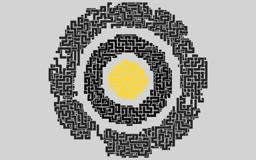
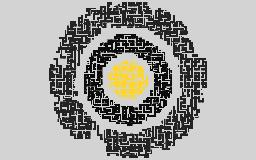
add leaves

Changed region(s): [[0.1875, 0.0, 0.8125, 1.0]]

diff --git a/scripts/decoration.js b/scripts/decoration.js
@@ -1,0 +1,59 @@
+let root = "./preview/thumbnail/"
+    //each flavor has pictures of n images
+    //under the root directory
+let source = {
+    'l': 4,
+    'm': 6,
+    's': 8
+}
+
+class Leaf {
+    constructor(img) {
+        let reference = Math.max(globals['width'], globals['height']);
+        this.baseSize = Math.min(1024, reference * 0.8);
+        let flavor = "llmmss".charAt(Math.floor(Math.random() * 6)).toString();
+        this.src = root + flavor + Math.floor(Math.random() * source[flavor] + 1) + '.png';
+        //exclude bottom left corner
+        let corner = Math.floor(Math.random() * 3);
+        let dev = (this.baseSize / -2) + 'px';
+
+        this.img = img;
+        switch (corner) {
+            case 0:
+                this.img.style.left = dev;
+                this.img.style.top = dev;
+                break;
+            case 1:
+                this.img.style.right = dev;
+                this.img.style.top = dev;
+                break;
+            case 2:
+                this.img.style.right = dev;
+                this.img.style.bottom = dev;
+                break;
+        }
+        this.img.style.width = this.baseSize + 'px';
+        this.img.style.height = this.img.style.width;
+        if (!globals['isMobile']) {
+            this.img.onmouseover = () => {
+                this.img.style.width = (this.baseSize - 5) + 'px';
+                this.img.style.height = this.img.style.width;
+            }
+            this.img.onmouseout = () => {
+                this.img.style.width = (this.baseSize) + 'px';
+                this.img.style.height = this.img.style.width;
+            }
+        }
+        this.img.src = this.src;
+    }
+}
+
+let collection = [];
+
+async function initLeaves() {
+    collection = [];
+    let leaves = document.querySelectorAll(".deco.leaf");
+    for (let i = 0; i < leaves.length; i++) {
+        collection.push(new Leaf(leaves[i]));
+    }
+}

diff --git a/index.html b/index.html
@@ -13,6 +13,7 @@
     <script type="text/javascript" src="./scripts/view_wraps.js"></script>
     <script type="text/javascript" src="./scripts/vector.js"></script>
     <script type="text/javascript" src="./scripts/pondAnimator.js"></script>
+    <script type="text/javascript" src="./scripts/decoration.js"></script>
     <script type="text/javascript" src="./scripts/slab.js"></script>
     <script type="text/javascript" src="./scripts/init.js"></script>
 </head>
@@ -20,6 +21,14 @@
 <body>
     <p id="debug"></p>
     <canvas id="background"></canvas>
+    <div id="deco_holder">
+        <img class="deco leaf">
+        <img class="deco leaf">
+        <img class="deco leaf">
+        <img class="deco leaf">
+        <img class="deco leaf">
+        <img class="deco leaf">
+    </div>
     <!--the navigational panel on the left-->
     <div id="header">
         <div id="header_text">

diff --git a/res/layout/stylesheet.css b/res/layout/stylesheet.css
@@ -143,3 +143,15 @@ body {
 .exhibition#about>div {
     height: fit-content;
 }
+
+
+/*
+below are for decorations
+*/
+
+.deco.leaf {
+    position: absolute;
+    opacity: 0.6;
+    transition: width 1s, height 1s;
+    transition-timing-function: ease-in-out;
+}

diff --git a/scripts/init.js b/scripts/init.js
@@ -173,6 +173,8 @@ window.onload = function() {
         }
     };
 
+    // process decorative leaves
+    initLeaves();
     // start pond animation
     startAnimation();
 };

diff --git a/precompile.py b/precompile.py
@@ -19,7 +19,7 @@ def clear(dir, exempt = []):
 res_img_major = os.path.join(root, 'res', 'img', 'major') # major projects
 res_img_minor = os.path.join(root, 'res', 'img', 'minor') # minor projects
 res_img_illust = os.path.join(root, 'res', 'img', 'illust') # illustrations
-res_deco = os.path.join(root, 'res', 'img', 'deco') # site decorations
+res_img_deco = os.path.join(root, 'res', 'img', 'deco') # site decorations
 
 # destination for processed files
 thumbnail = os.path.join(root, 'preview', 'thumbnail')
@@ -33,7 +33,7 @@ block_height_large = 320
 from PIL import Image
 # batch resize all image files in the source directory
 # and save them in the destination directory as thumbnails
-def compress_img(src, dest, max_height):
+def compress_img(src, dest, max_height = 1440, alpha = False):
     prev_dir = os.getcwd()
     os.chdir(src)
     imgs = glob.glob('*')
@@ -44,17 +44,21 @@ def compress_img(src, dest, max_height):
         print('processing image: ', img)
         file, ext = os.path.splitext(img)
         with Image.open(img) as im:
-            im = im.convert('RGB')
             # resize by height
             w, h = im.size
             w = int(max_height / h * w) 
             im.thumbnail((w, h))
-            tosave.append((im, file + '.jpeg'))
+            if alpha:
+                im = im.convert('RGBA')
+                tosave.append((im, file, 'PNG'))
+            else:
+                im = im.convert('RGB')
+                tosave.append((im, file, 'JPEG'))
             processed.append(file)
     
     os.chdir(dest)
     for t in tosave:
-        t[0].save(t[1], 'JPEG')
+        t[0].save(t[1] + '.' + t[2].lower(), t[2])
     
     os.chdir(prev_dir)
     return processed
@@ -64,6 +68,7 @@ clear(thumbnail)
 thumbnail_names = []
 thumbnail_names += compress_img(res_img_major, thumbnail, block_height_large)
 thumbnail_names += compress_img(res_img_minor, thumbnail, block_height_small)
+compress_img(res_img_deco, thumbnail, alpha = True)
 
 # I. 2. precompress videos
 res_vid_major = os.path.join(root, 'res', 'vid', 'major') # major projects
